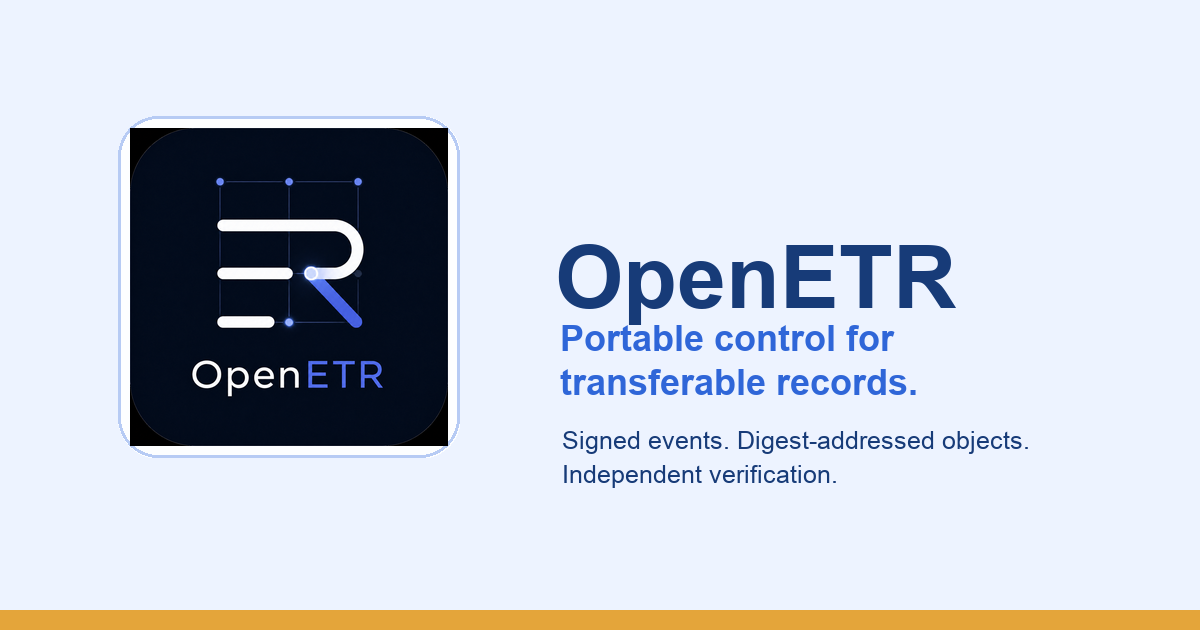
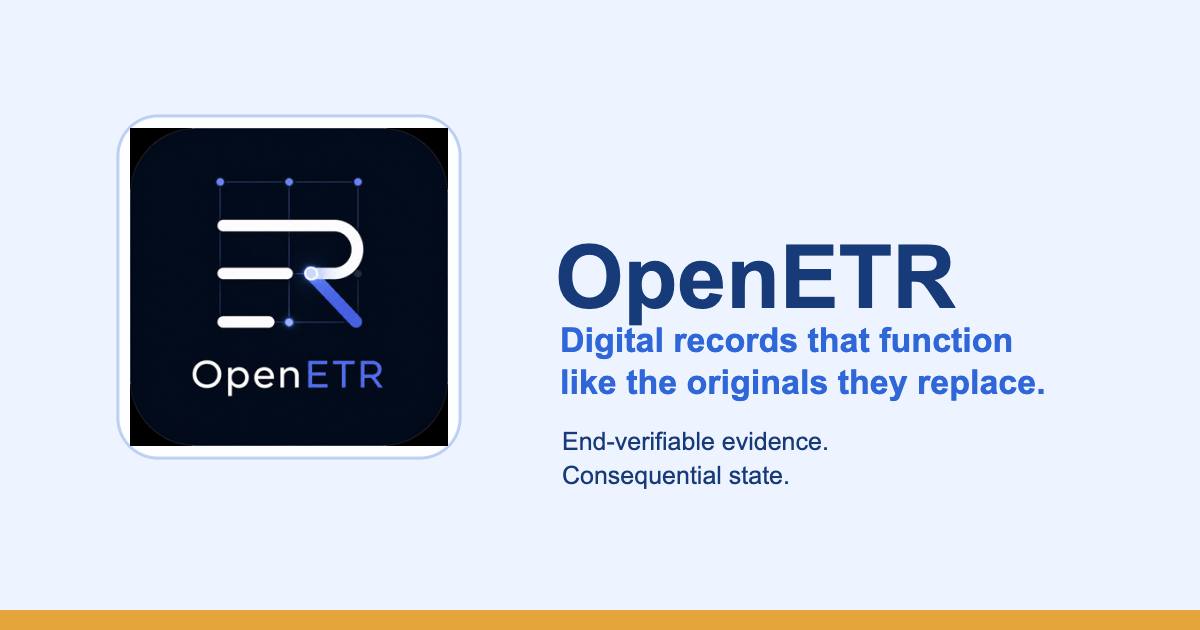
docs: update social preview for functional equivalence model

diff --git a/docs-site/overrides/main.html b/docs-site/overrides/main.html
@@ -13,7 +13,7 @@
   <meta property="og:image" content="{{ config.site_url }}assets/images/openetr-social.png">
   <meta property="og:image:width" content="1200">
   <meta property="og:image:height" content="630">
-  <meta property="og:image:alt" content="OpenETR logo">
+  <meta property="og:image:alt" content="OpenETR: Digital records that function like the originals they replace">
   <meta name="twitter:card" content="summary_large_image">
   <meta name="twitter:title" content="{{ social_title }}">
   <meta name="twitter:description" content="{{ social_description }}">
